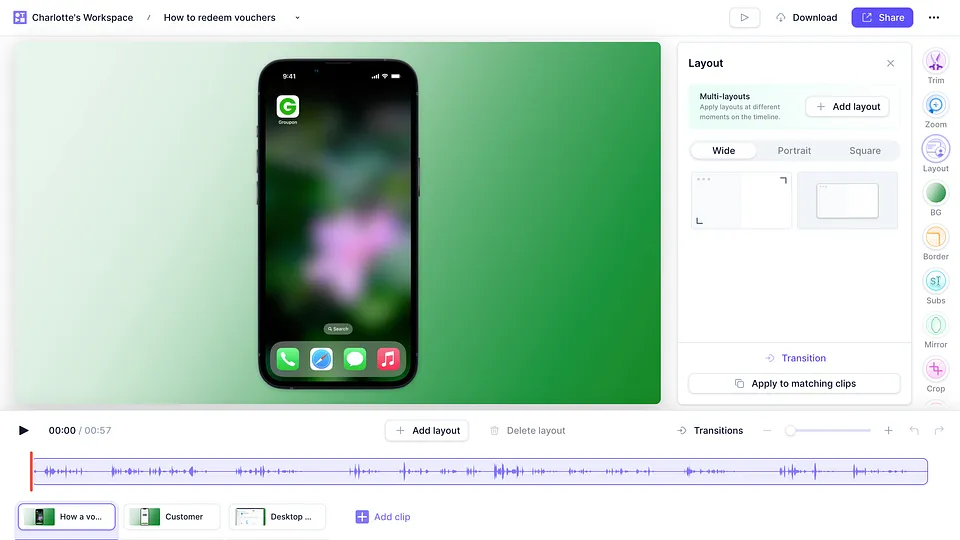
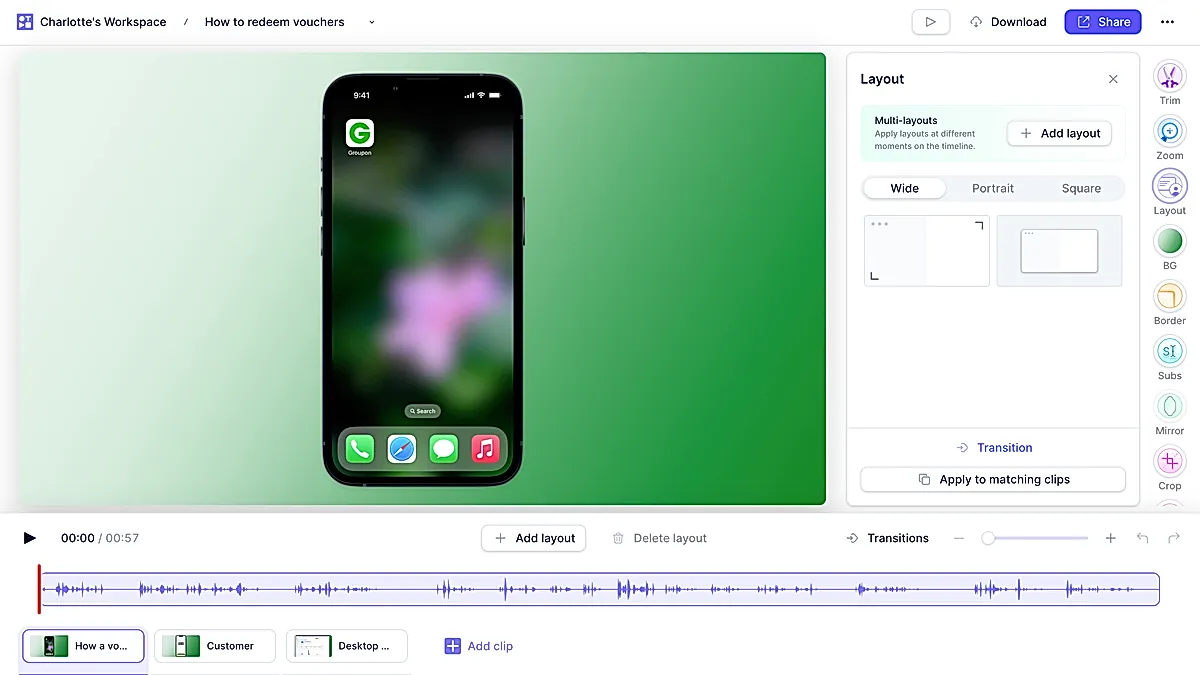
Update script and styles

diff --git a/public/css/index.css b/public/css/index.css
@@ -17,6 +17,7 @@
 	--text-color-link-active: #02b368;
 	--text-color-link-visited: #17050F;
 
+	--code-color: #014421;
 	--syntax-tab-size: 2;
 }
 
@@ -32,6 +33,7 @@
 		--text-color-link-visited: #fff;
 
 		--background-color: #02211c;
+		--code-color: #02b368;
 	}
 }
 
@@ -48,7 +50,9 @@ body {
 	font-family: var(--font-family);
 	color: var(--text-color);
 	background-color: var(--background-color);
+	max-width: 40em;
 }
+
 html {
 	overflow-y: scroll;
 }
@@ -279,11 +283,21 @@ h2 + .header-anchor {
 	font-size: 1.5em;
 }
 
+/* Existing image defaults for mobile/smaller screens */
 img {
-    width: 100%; /* or any custom size */
-    height: 100%; 
-    object-fit: contain;
-}
+	width: 100%;
+	height: auto;
+	object-fit: contain;
+  }
+  
+  /* On desktop (≥960px wide screens), fix the image width at 960px and center it */
+  @media (min-width: 960px) {
+	img {
+	  width: 960px;
+	  display: block;        /* Inline images need display: block to center with auto margins */
+	  margin: 0 auto;        /* Center horizontally */
+	}
+  }  
 
 footer {
 	display: flex;
@@ -305,10 +319,50 @@ figure {
 
 code {
 	background-color: rgba(135, 131, 120, 0.15); /* Soft gray background */
-	color: #014421;
+	color: var(--code-color);
 	font-size: 0.9em;
 	padding: 2px 4px;
 	border-radius: 4px;
 	white-space: nowrap;
-  }
+}
+  
+/* Mobile default: images fill container, no bleed */
+.full-bleed {
+	margin: 2em 0; /* space above/below figure */
+	text-align: center; /* center the figcaption text */
+}
+.full-bleed img {
+display: block;
+width: 100%; 
+height: auto;
+margin: 0 auto;
+object-fit: contain; /* or cover, as you prefer */
+border-radius: 4px;
+}
+.full-bleed figcaption {
+font-size: 0.9em;
+margin-top: 0.5em;
+text-align: center;
+}
+
+@media (min-width: 960px) {
+	.full-bleed {
+	  position: relative;
+	  left: 50%;
+	  right: 50%;
+	  width: 100vw;
+	  margin-left: -50vw;
+	  margin-right: -50vw;
+	}
+	.full-bleed img {
+	  width: 60%; /* fill that 100vw container */
+	  border-radius: 12px;
+	}
+	.full-bleed figcaption {
+	  width: 100%;       /* same full width as figure */
+	  display: block;    /* ensure it’s on its own line */
+	}
+}
+  
+
   

diff --git a/fetch-notion.js b/fetch-notion.js
@@ -77,10 +77,14 @@ async function downloadAndOptimizeImage(url, filename) {
   const response = await axios.get(url, { responseType: 'arraybuffer' });
   const buffer = Buffer.from(response.data, 'binary');
 
-  // Resize to max width of 960px, apply sharpen, then convert to WebP
+  // Resize to max width of 1200px, apply sharpen with parameters, then convert to WebP
   const optimizedImageBuffer = await sharp(buffer)
-    .resize(960)
-    .sharpen() // <-- optionally pass parameters to tweak sharpness
+    .resize(1200, null, { withoutEnlargement: true }) // Optional: Prevents enlarging the image if smaller than 960px
+    .sharpen({ 
+      sigma: 1.5,  // Increase to sharpen more
+      flat: 1,     // Helps preserve flat areas
+      jagged: 1    // Helps preserve jagged edges
+    })
     .webp({ quality: 80 })
     .toBuffer();
 
@@ -89,6 +93,7 @@ async function downloadAndOptimizeImage(url, filename) {
 
   return `/images/${filename}.webp`;
 }
+
 
 /**
  * Convert a list of Notion blocks into a Markdown string
